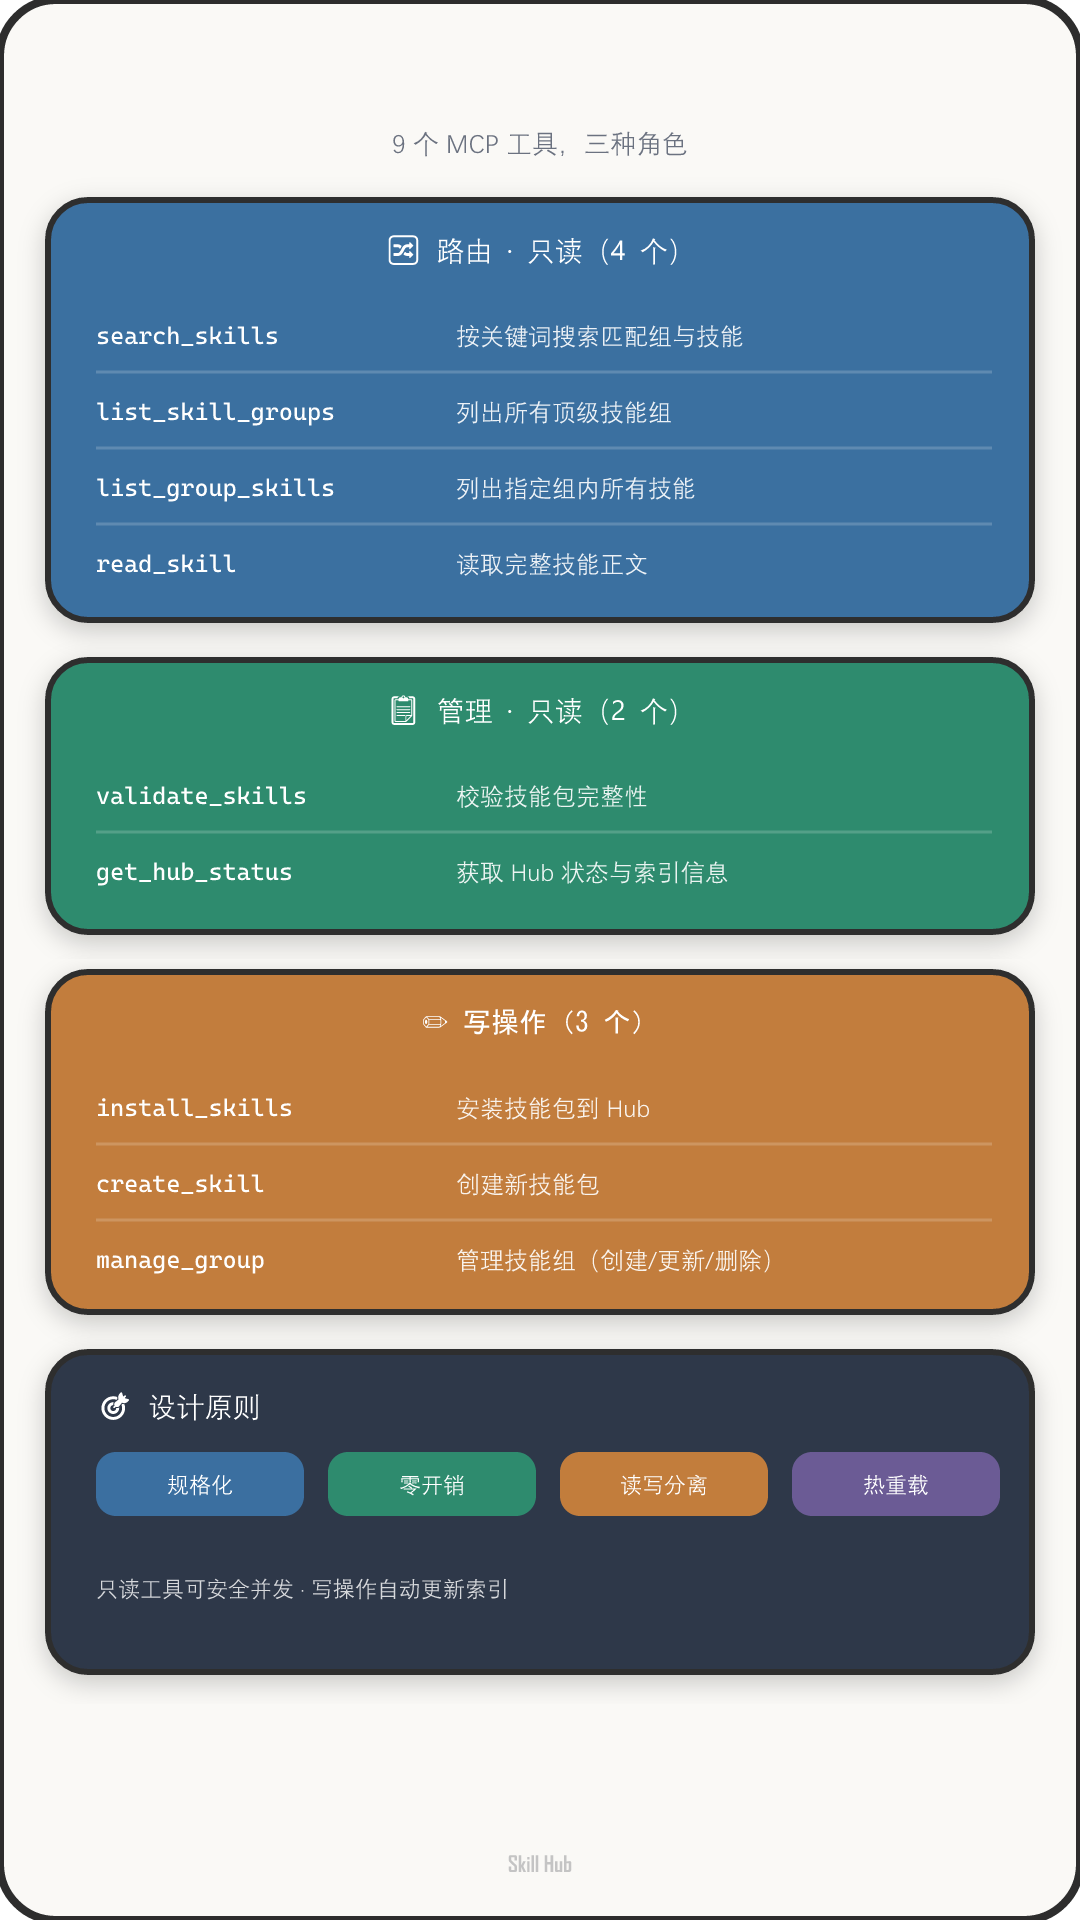
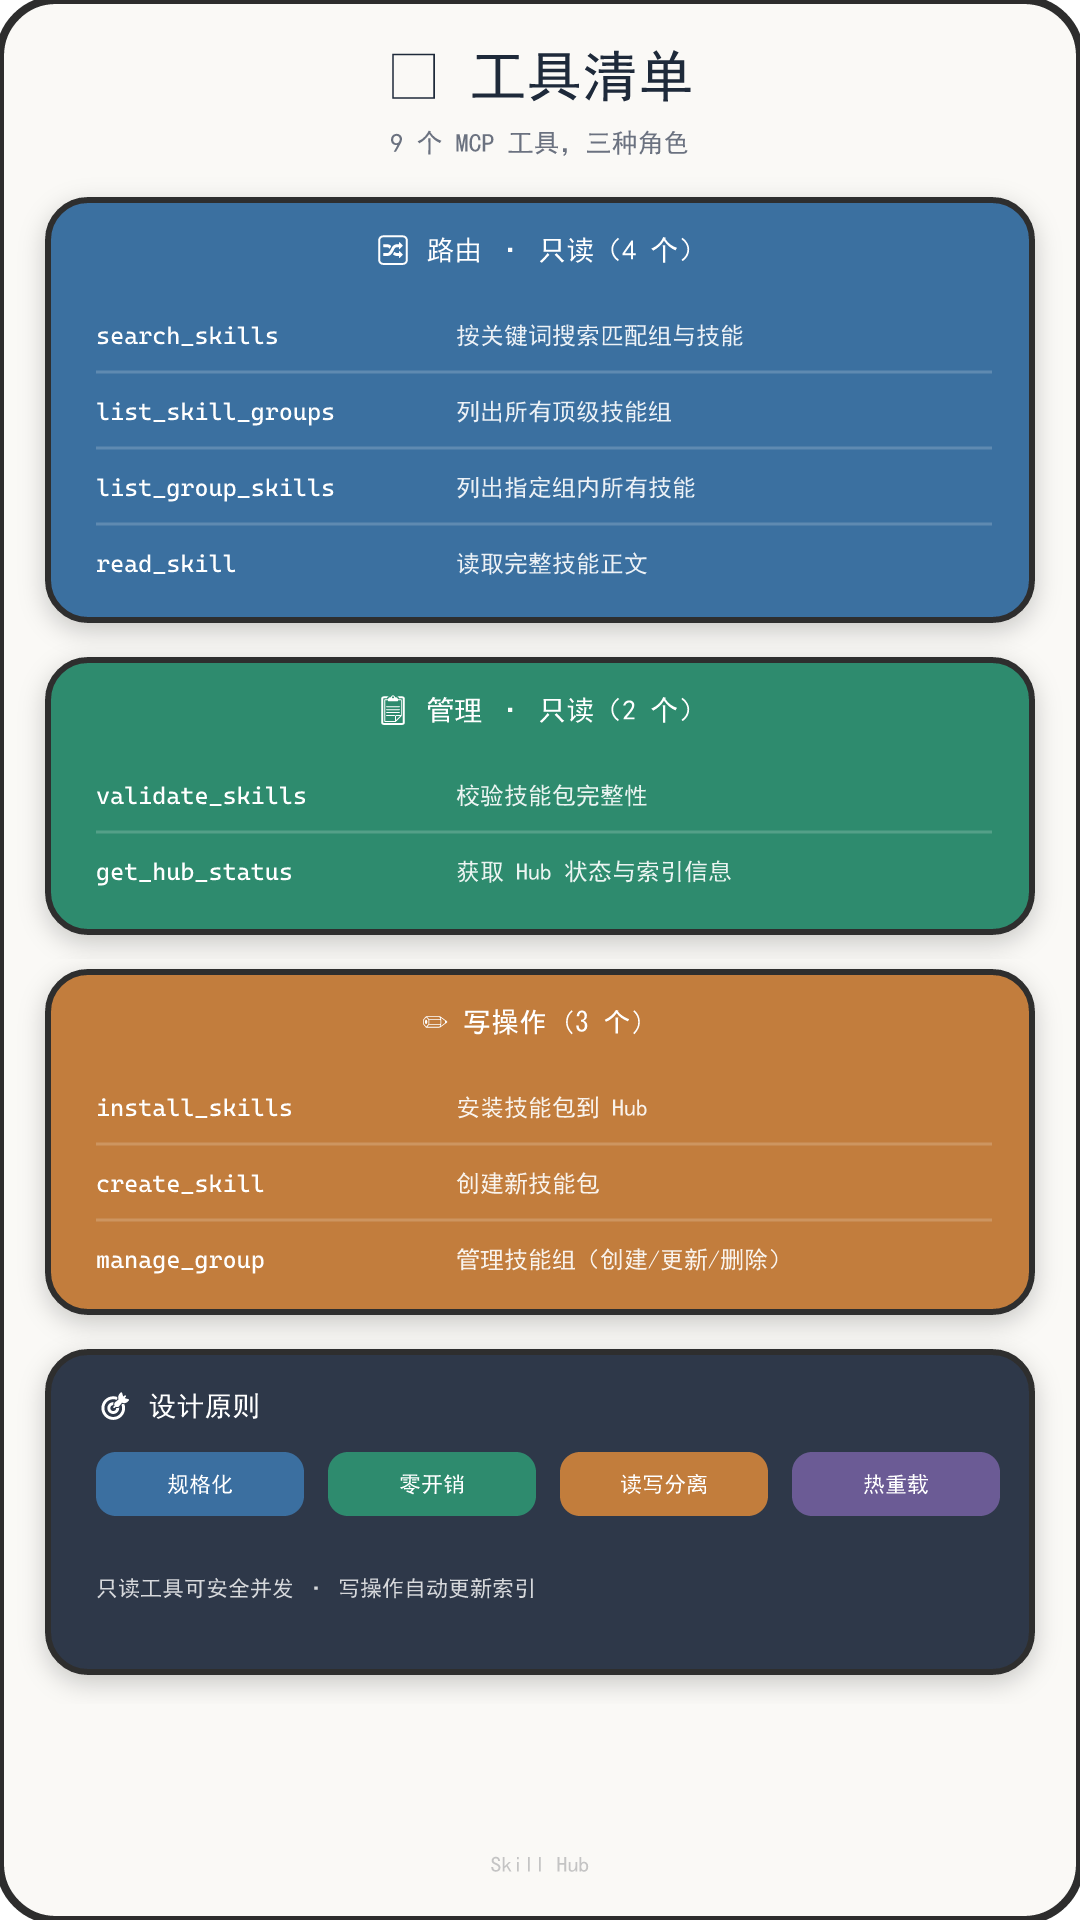
Fix CJK garbled text in PNG exports, remove README images
- Load simhei.ttf + msyh.ttc system fonts in svg-to-png.mjs for
  proper Chinese character rendering
- Remove 5 diagram images from README (kept SVG sources in docs/)

diff --git a/README.md b/README.md
@@ -2,10 +2,6 @@
 
 **用 9 个工具的固定开销，按需访问 230+ 个专业技能，而不需要把任何 skill 正文常驻上下文。**
 
-<p align="center">
-  <img src="docs/diagrams/png/01-overview.png" width="270" alt="Skill Hub Overview"/>
-</p>
-
 传统做法：每个 skill 作为本地 skill 加载 → description 全量驻留 context → 230+ 个 skill = 数万 tokens 白白浪费，且每次对话都背着它们跑。
 
 内置 230+ 个 skill 只是起步。用户可通过 `install_skills` 从目录批量安装，持续扩充自己的 skill 库。
@@ -13,10 +9,6 @@
 Skill Hub 的做法：skill 全部存放在本地包仓库，context 里只有 9 个轻量工具定义。LLM 需要某个专业能力时，通过路由按需加载。不需要的时候，零开销。
 
 ## 路由协议
-
-<p align="center">
-  <img src="docs/diagrams/png/02-routing.png" width="270" alt="Routing Protocol"/>
-</p>
 
 ```
 search_skills(query)
@@ -57,10 +49,6 @@ search_skills 是辅助过滤，不是必须入口。搜不到就去 list_skill_
 
 ## 存储结构
 
-<p align="center">
-  <img src="docs/diagrams/png/04-storage.png" width="270" alt="Storage Structure"/>
-</p>
-
 ```
 data/hub/
   config/groups.json           # 组目录（16 个内置组 + 自定义组）
@@ -99,10 +87,6 @@ Skill 正文内容...
 
 ## 工具清单（9 个）
 
-<p align="center">
-  <img src="docs/diagrams/png/03-tools.png" width="270" alt="Tool List"/>
-</p>
-
 ### 路由（只读）
 
 | 工具 | 用途 |
@@ -123,10 +107,6 @@ Skill 正文内容...
 | `manage_group` | 创建/更新/删除组（mode: create/update/delete） |
 
 ## 组体系
-
-<p align="center">
-  <img src="docs/diagrams/png/05-classification.png" width="270" alt="Classification"/>
-</p>
 
 内置 16 个组，覆盖主要专业领域：
 
